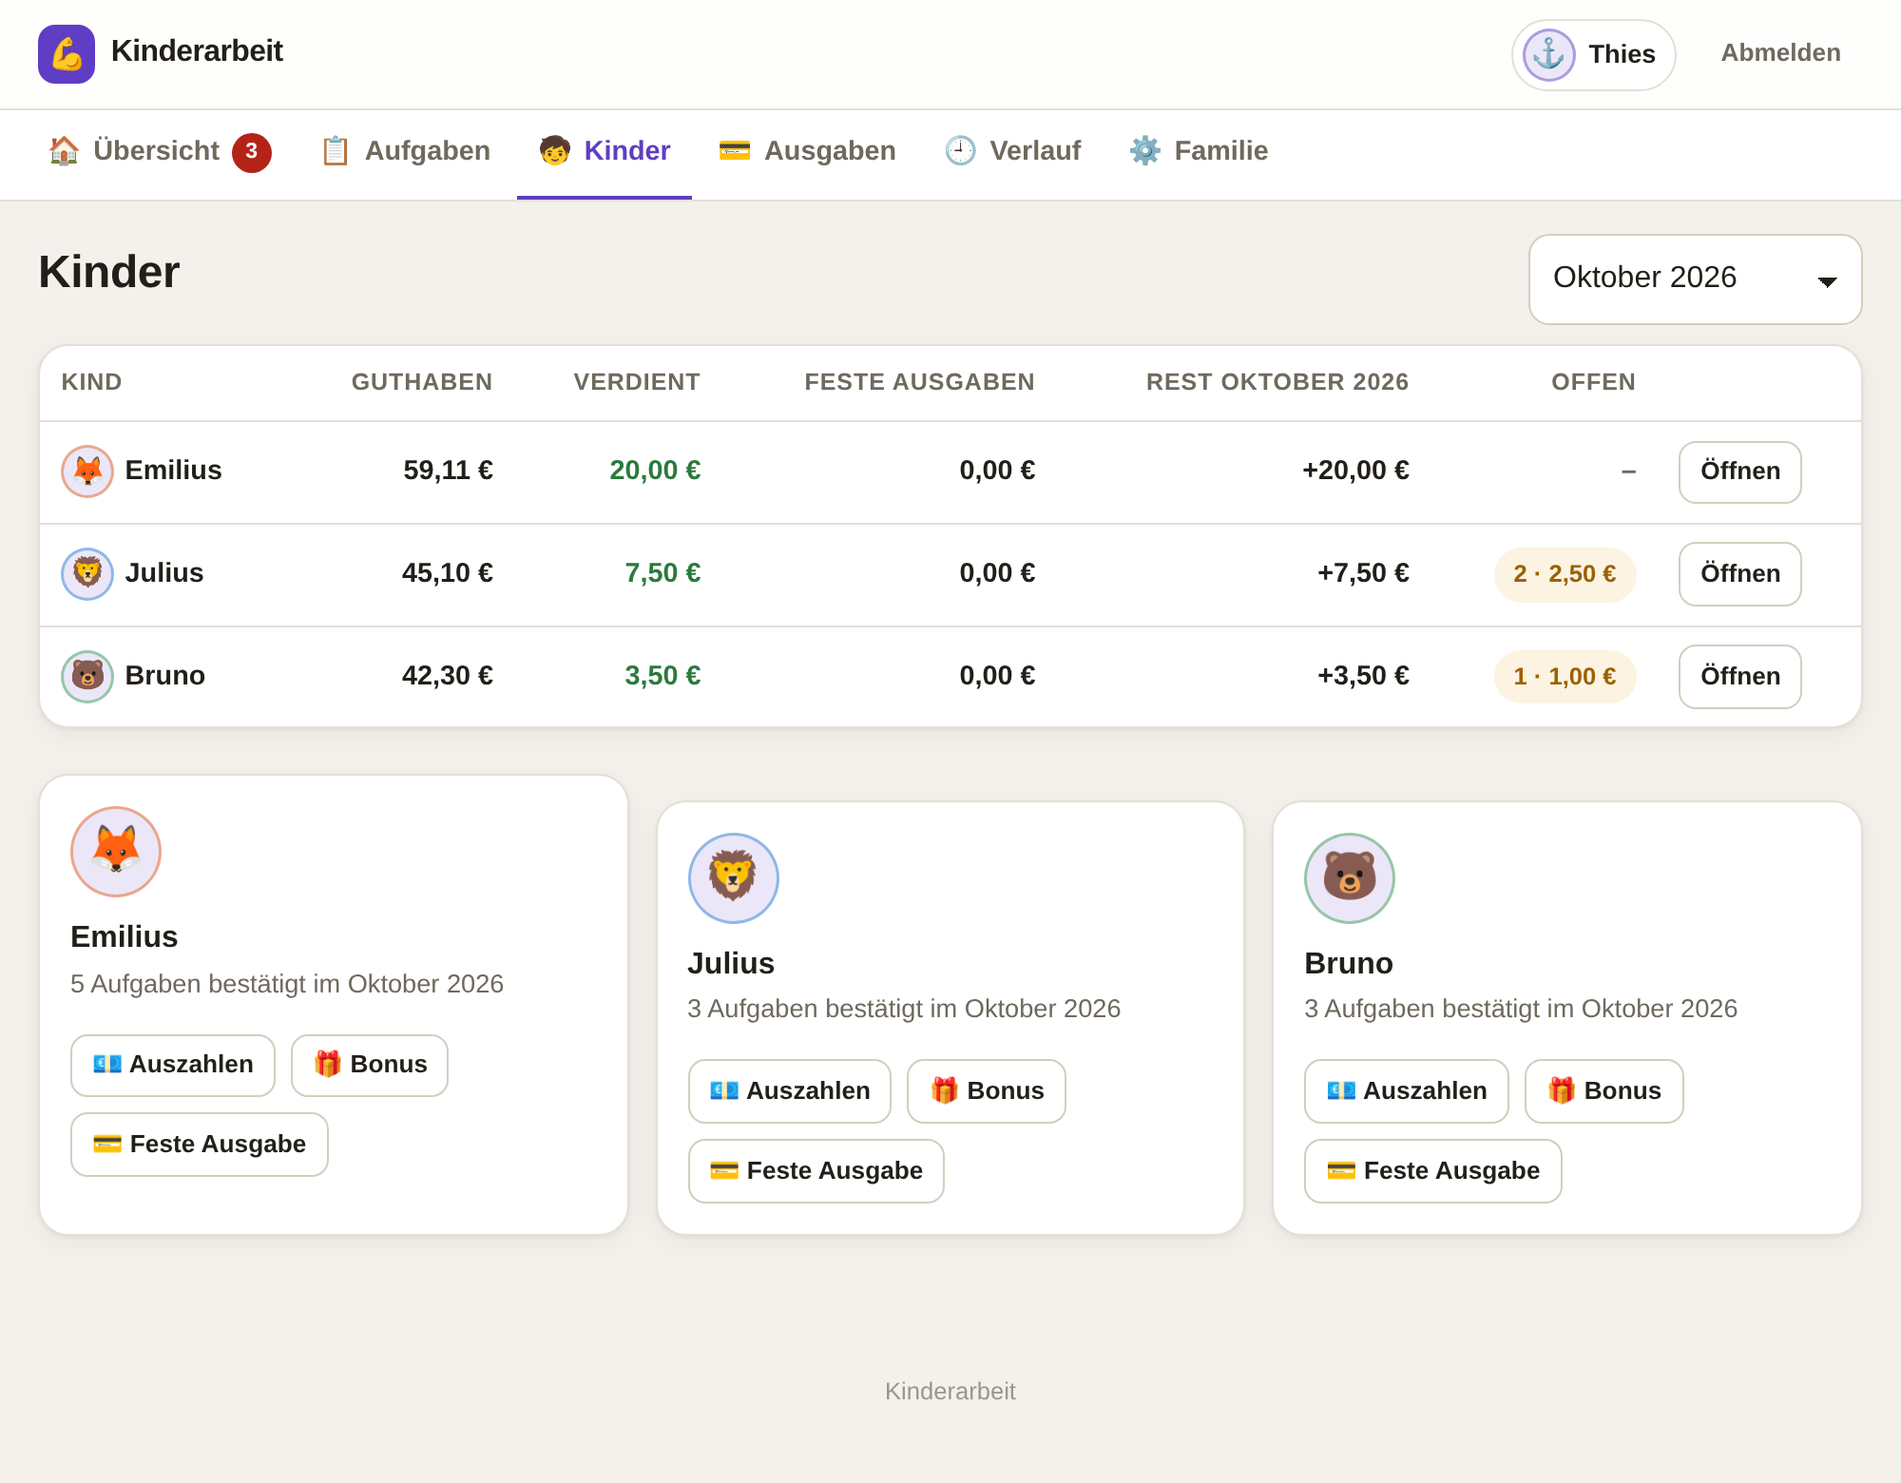
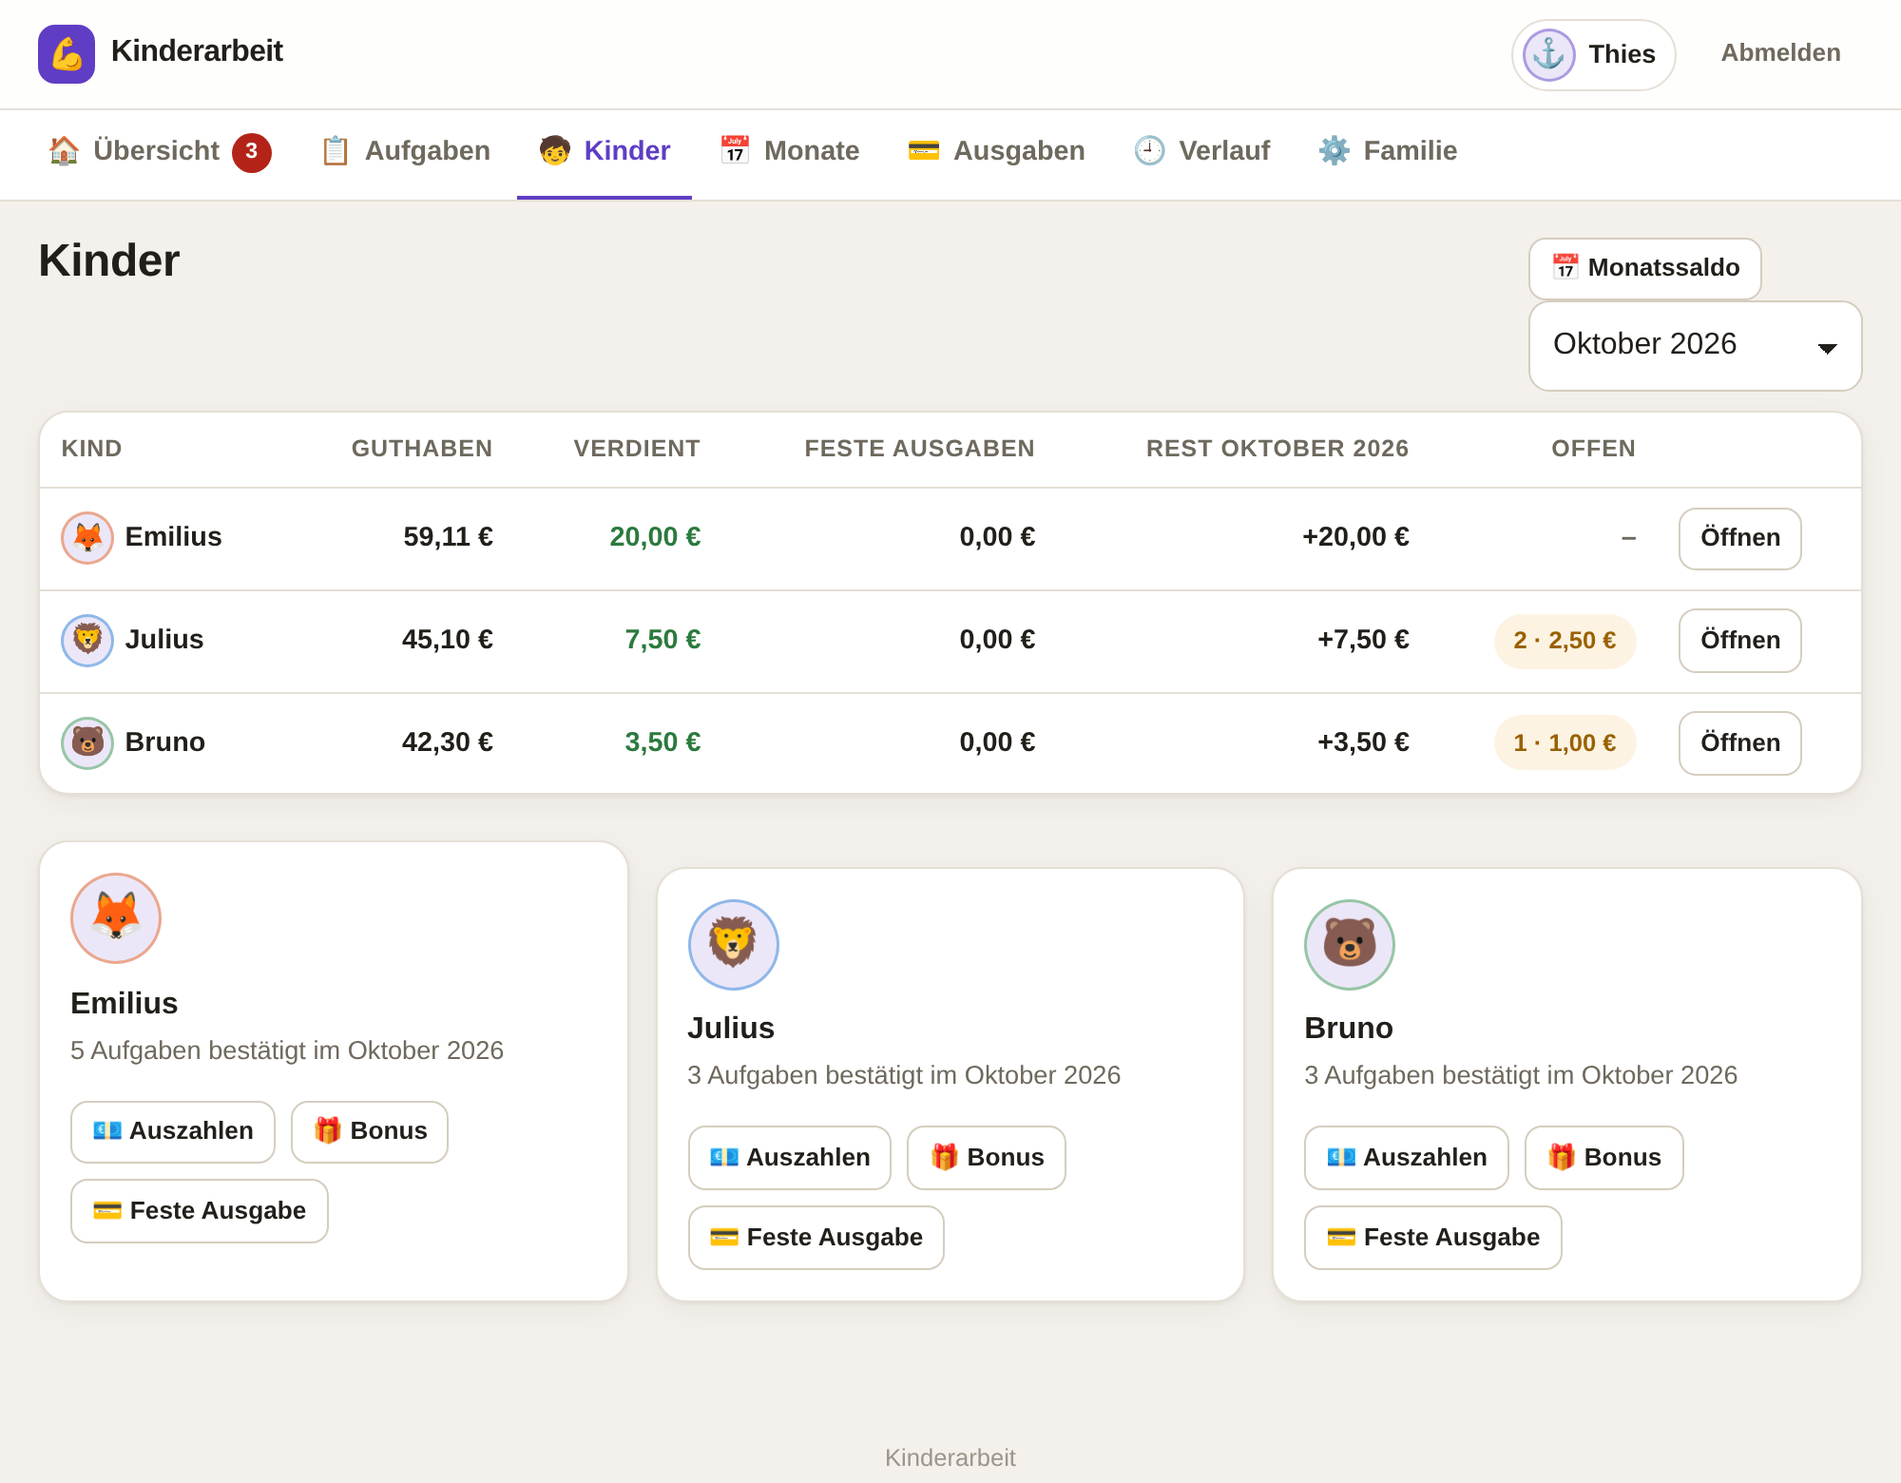
Monatssaldo: alle Kinder nebeneinander, Monat für Monat
Die Liste „Monat für Monat“ gibt es bisher nur je Kind. Wer wissen will, wie
die Monate über die ganze Familie liefen, musste drei Seiten vergleichen.

Die neue Seite (Eltern → Monate) legt beides übereinander: Zeilen sind die
Monate, Spalten die Kinder, in jeder Zelle der Saldo genau dieses Monats.
Rechts die Summe über alle Kinder, unten das Guthaben über alle Monate -
bewusst nicht die Summe der angezeigten Spalte, denn bei mehr als 24 Monaten
wäre das nicht dasselbe. Ein Klick auf einen Betrag führt zu diesem Monat
beim Kind, einer auf den Monat in den Verlauf; was den Saldo ausmacht, steht
im Tooltip, damit die Tabelle schmal bleibt.

Ledger::monthlyTotalsByChild() holt das in einer Abfrage - Monat => Kind =>
Zahlen, dieselben Felder wie monthSummary(). Monate, in denen ein Kind nichts
gebucht hat, lassen es weg; die Zelle bleibt leer, statt 0,00 € zu behaupten.

Am Stylesheet zwei Kleinigkeiten: die Monatsspalte bleibt beim seitlichen
Scrollen stehen (auf dem Handy passen sonst nur zwei Kinder ins Bild und man
weiß nicht mehr, zu welchem Monat die Zahl gehört), und Links in Tabellen
erben jetzt die Farbe der Zelle. Sonst übermalte das Linkblau genau die
Aussage - grün für plus, rot für minus - und ein Dutzend Unterstreichungen
machten die Spalte unruhig. Deshalb auch die Version hoch: sonst holt sich
kein Gerät das neue Stylesheet.

Geprüft: 303 Selbsttests (8 neue), die Seite in beiden Breiten im Browser,
[…]

diff --git a/assets/app.css b/assets/app.css
@@ -613,6 +613,20 @@ a:hover { color: color-mix(in srgb, var(--accent-ink) 75%, var(--text)); }
 .table { width: 100%; border-collapse: collapse; font-size: .9rem; }
 .table th, .table td { padding: .6rem .7rem; text-align: left; border-bottom: 1px solid var(--border); white-space: nowrap; }
 
+/* In Tabellen tragen die Zahlen die Aussage: grün für plus, rot für minus. Ein
+   Link darf diese Farbe nicht überschreiben, und ein Dutzend Unterstreichungen
+   machen die Spalte unruhig – erst beim Draufzeigen. */
+.table a { color: inherit; text-decoration: none; }
+.table a:hover, .table a:focus-visible { text-decoration: underline; }
+
+/* Die Monatsspalte bleibt beim seitlichen Scrollen stehen – sonst weiß man auf
+   dem Handy nicht mehr, zu welchem Monat die Zahl rechts gehört. */
+.table .col-monat {
+  position: sticky; left: 0; z-index: 1;
+  background: var(--surface);
+  box-shadow: 10px 0 10px -10px rgb(0 0 0 / .35);
+}
+
 /* Die Spalte mit Bearbeiten und Löschen bleibt beim seitlichen Scrollen stehen,
    damit sie auf dem Handy erreichbar ist. */
 .table .col-actions {

diff --git a/app/views/parent/month-balances.php b/app/views/parent/month-balances.php
@@ -1,0 +1,107 @@
+<?php
+/**
+ * Monatssaldo: alle Kinder nebeneinander, Monat für Monat.
+ *
+ * @var array $children  Kinder in ihrer Reihenfolge
+ * @var array $monate    Monat => Kind-ID => Zahlen (Ledger::monthlyTotalsByChild)
+ * @var array $balances  Kind-ID => Guthaben über alle Monate
+ */
+defined('KINDERARBEIT') || exit;
+
+$jetzt = current_month();
+?>
+
+<div class="section__head">
+  <h1>Monatssaldo</h1>
+  <span class="section__hint">Endsaldo je Monat und Kind</span>
+</div>
+
+<?php if (!$monate): ?>
+  <div class="card empty">
+    <span class="empty__icon" aria-hidden="true">📅</span>
+    Noch kein Monat mit Buchungen.
+  </div>
+<?php else: ?>
+  <div class="card card--flush">
+    <div class="table-wrap">
+      <table class="table">
+        <thead>
+          <tr>
+            <th class="col-monat">Monat</th>
+            <?php foreach ($children as $child): ?>
+              <th class="num"><?= e($child['emoji']) ?> <?= e($child['name']) ?></th>
+            <?php endforeach; ?>
+            <th class="num">Zusammen</th>
+          </tr>
+        </thead>
+        <tbody>
+          <?php foreach ($monate as $monat => $zeile): ?>
+            <?php $summe = 0; ?>
+            <tr>
+              <td class="col-monat">
+                <a href="<?= e(url('verlauf', ['monat' => $monat])) ?>"><?= e(month_label((string)$monat)) ?></a>
+                <?php if ($monat === $jetzt): ?><span class="pill tiny">läuft noch</span><?php endif; ?>
+              </td>
+
+              <?php foreach ($children as $child): ?>
+                <?php
+                $kindId = (int)$child['id'];
+                $zahlen = $zeile[$kindId] ?? null;
+                $saldo  = (int)($zahlen['net'] ?? 0);
+                $summe += $saldo;
+
+                // Was den Saldo ausmacht, steht im Tooltip – die Tabelle bleibt schmal.
+                $teile = [];
+                if ($zahlen !== null) {
+                    if ($zahlen['earned'] !== 0)      { $teile[] = 'verdient ' . Money::format($zahlen['earned']); }
+                    if ($zahlen['bonus'] !== 0)       { $teile[] = 'Bonus ' . Money::format($zahlen['bonus']); }
+                    if ($zahlen['expenses'] !== 0)    { $teile[] = 'feste Ausgaben ' . Money::format(-$zahlen['expenses']); }
+                    if ($zahlen['payouts'] !== 0)     { $teile[] = 'ausgezahlt ' . Money::format(-$zahlen['payouts']); }
+                    if ($zahlen['corrections'] !== 0) { $teile[] = 'Korrekturen ' . Money::format($zahlen['corrections'], true); }
+                }
+                ?>
+                <td class="num <?= $saldo > 0 ? 'value-positive' : ($saldo < 0 ? 'value-negative' : 'muted') ?>">
+                  <?php if ($zahlen === null): ?>
+                    <span class="muted">–</span>
+                  <?php else: ?>
+                    <a href="<?= e(url('kind-detail', ['id' => $kindId, 'monat' => $monat])) ?>"
+                       title="<?= e($teile ? implode(' · ', $teile) : 'nichts gebucht') ?>">
+                      <?= e(Money::format($saldo, true)) ?>
+                    </a>
+                  <?php endif; ?>
+                </td>
+              <?php endforeach; ?>
+
+              <td class="num <?= $summe > 0 ? 'value-positive' : ($summe < 0 ? 'value-negative' : 'muted') ?>">
+                <?= e(Money::format($summe, true)) ?>
+              </td>
+            </tr>
+          <?php endforeach; ?>
+        </tbody>
+        <tfoot>
+          <tr>
+            <th class="col-monat">Guthaben gesamt</th>
+            <?php $gesamt = 0; ?>
+            <?php foreach ($children as $child): ?>
+              <?php $stand = (int)($balances[(int)$child['id']] ?? 0); $gesamt += $stand; ?>
+              <th class="num <?= $stand < 0 ? 'value-negative' : ($stand > 0 ? 'value-positive' : 'muted') ?>">
+                <?= e(Money::format($stand)) ?>
+              </th>
+            <?php endforeach; ?>
+            <th class="num <?= $gesamt < 0 ? 'value-negative' : ($gesamt > 0 ? 'value-positive' : 'muted') ?>">
+              <?= e(Money::format($gesamt)) ?>
+            </th>
+          </tr>
+        </tfoot>
+      </table>
+    </div>
+  </div>
+
+  <p class="field__hint">
+    Jeder Monat fängt am 1. bei 0 an; am Monatsende gehen die festen Ausgaben ab.
+    Was dann unter dem Strich steht, ist der Saldo dieses Monats – ob plus oder minus.
+    Ein Klick auf einen Betrag zeigt den Monat beim Kind, ein Klick auf den Monat
+    alle Buchungen. <strong>Guthaben gesamt</strong> unten ist der Kontostand über
+    alle Monate hinweg.
+  </p>
+<?php endif; ?>

diff --git a/app/Repo/Ledger.php b/app/Repo/Ledger.php
@@ -293,6 +293,50 @@ final class Ledger
         return $monate;
     }
 
+    /**
+     * Dasselbe fuer alle Kinder auf einmal: Monat fuer Monat, je Kind der
+     * Saldo dieses Monats. Fuer die Seite „Monatssaldo“, die beides
+     * nebeneinanderlegt.
+     *
+     * @return array<string, array<int, array{earned:int, bonus:int, expenses:int, payouts:int, corrections:int, net:int, entries:int}>>
+     *         Monat (neueste zuerst) => Kind-ID => Zahlen
+     */
+    public static function monthlyTotalsByChild(int $limit = 24): array
+    {
+        $stmt = Database::pdo()->prepare(
+            "SELECT booked_month AS month, child_id,
+                COALESCE(SUM(CASE WHEN category = 'task'    AND amount_cents > 0 THEN amount_cents END), 0) AS earned,
+                COALESCE(SUM(CASE WHEN category = 'bonus'   AND amount_cents > 0 THEN amount_cents END), 0) AS bonus,
+                COALESCE(SUM(CASE WHEN category = 'expense' THEN -amount_cents END), 0)                 AS expenses,
+                COALESCE(SUM(CASE WHEN category = 'payout'  THEN -amount_cents END), 0)                 AS payouts,
+                COALESCE(SUM(CASE WHEN category = 'correction' THEN amount_cents END), 0)               AS corrections,
+                COALESCE(SUM(amount_cents), 0)                                                          AS net,
+                COUNT(*)                                                                                AS entries
+               FROM ledger
+              WHERE booked_month IN (
+                    SELECT DISTINCT booked_month FROM ledger ORDER BY booked_month DESC LIMIT " . max(1, $limit) . "
+                    )
+           GROUP BY booked_month, child_id
+           ORDER BY booked_month DESC"
+        );
+        $stmt->execute();
+
+        $monate = [];
+        foreach ($stmt->fetchAll() as $row) {
+            $monate[(string)$row['month']][(int)$row['child_id']] = [
+                'earned'      => (int)$row['earned'],
+                'bonus'       => (int)$row['bonus'],
+                'expenses'    => (int)$row['expenses'],
+                'payouts'     => (int)$row['payouts'],
+                'corrections' => (int)$row['corrections'],
+                'net'         => (int)$row['net'],
+                'entries'     => (int)$row['entries'],
+            ];
+        }
+
+        return $monate;
+    }
+
     /** Buchungen eines Kindes, optional auf einen Monat begrenzt. */
     public static function forChild(int $childId, ?string $month = null, int $limit = 100): array
     {

diff --git a/bin/selftest.php b/bin/selftest.php
@@ -870,6 +870,31 @@ check('Bleibt beim Zuruecknehmen liegen',
       in_array('Schwimmbad', array_column(Expenses::clearBookings(current_month()), 'title'), true), false);
 check('Und wird nicht neu gebucht',   Billing::run(true), 0);
 
+echo "\nMonatssaldo fuer alle Kinder\n";
+$alle = Ledger::monthlyTotalsByChild();
+check('Monate sind dabei',            isset($alle[current_month()]), true);
+check('Neuester Monat zuerst',        array_key_first($alle), max(array_keys($alle)));
+
+$julius = Users::findByName('Julius');
+foreach (Ledger::monthlyTotals((int)$julius['id']) as $monat) {
+    $ausTabelle = $alle[$monat['month']][(int)$julius['id']]['net'] ?? 'fehlt';
+    check('Saldo ' . $monat['month'] . ' deckt sich je Kind', $ausTabelle, $monat['net']);
+}
+
+$summe = 0;
+foreach ($alle as $zeile) {
+    $summe += $zeile[(int)$julius['id']]['net'] ?? 0;
+}
+check('Summe aller Monate ist der Kontostand', $summe, Ledger::balance((int)$julius['id']));
+
+// Ein Monat, in dem nur ein Kind etwas hatte: die anderen stehen gar nicht erst drin.
+Ledger::book((int)$julius['id'], 250, 'Lang her', 'bonus', 'manual', null,
+             (int)$thies['id'], '2020-01-15 12:00:00');
+$alle = Ledger::monthlyTotalsByChild();
+check('Alter Monat ist dabei',        isset($alle['2020-01']), true);
+check('Nur das Kind mit Buchung',     array_keys($alle['2020-01']), [(int)$julius['id']]);
+check('Und mit seinem Saldo',         $alle['2020-01'][(int)$julius['id']]['net'], 250);
+
 // Aufraeumen
 foreach (glob($tmp . '/*') ?: [] as $file) {
     @unlink($file);

diff --git a/app/views/layout.php b/app/views/layout.php
@@ -77,6 +77,7 @@ $pendingForNav = ($me && $me['role'] === 'parent') ? Completions::pendingCount()
             <?= View::render('partials/nav-link', ['href' => url('eltern'),   'label' => 'Übersicht',  'icon' => '🏠', 'active' => in_array($page, ['eltern', 'start'], true), 'count' => $pendingForNav]) ?>
             <?= View::render('partials/nav-link', ['href' => url('aufgaben'), 'label' => 'Aufgaben',   'icon' => '📋', 'active' => in_array($page, ['aufgaben', 'aufgabe-form'], true)]) ?>
             <?= View::render('partials/nav-link', ['href' => url('kinder'),   'label' => 'Kinder',     'icon' => '🧒', 'active' => in_array($page, ['kinder', 'kind-detail'], true)]) ?>
+            <?= View::render('partials/nav-link', ['href' => url('monatssaldo'), 'label' => 'Monate',    'icon' => '📅', 'active' => $page === 'monatssaldo']) ?>
             <?= View::render('partials/nav-link', ['href' => url('ausgaben'), 'label' => 'Ausgaben',   'icon' => '💳', 'active' => in_array($page, ['ausgaben', 'ausgabe-form'], true)]) ?>
             <?= View::render('partials/nav-link', ['href' => url('verlauf'),  'label' => 'Verlauf',    'icon' => '🕘', 'active' => in_array($page, ['verlauf', 'buchung'], true)]) ?>
             <?= View::render('partials/nav-link', ['href' => url('familie'),  'label' => 'Familie',    'icon' => '⚙', 'active' => $page === 'familie']) ?>

diff --git a/index.php b/index.php
@@ -6,7 +6,7 @@ declare(strict_types=1);
  * Einstiegspunkt fuer alle Seitenaufrufe.
  */
 
-define('KINDERARBEIT', '1.2.0');
+define('KINDERARBEIT', '1.3.0');
 
 require __DIR__ . '/app/bootstrap.php';
 
@@ -81,6 +81,7 @@ try {
         case 'pruefen':        ParentController::decide();         break;
         case 'kinder':         ParentController::childrenOverview(); break;
         case 'kind-detail':    ParentController::childDetail();    break;
+        case 'monatssaldo':    ParentController::monthlyBalances(); break;
 
         // --- Aufgabenverwaltung --------------------------------------------
         case 'aufgaben':       TaskController::index();            break;

diff --git a/app/Controller/ParentController.php b/app/Controller/ParentController.php
@@ -197,6 +197,19 @@ final class ParentController
         ]);
     }
 
+    /** Monatssaldo: alle Kinder nebeneinander, Monat für Monat. */
+    public static function monthlyBalances(): void
+    {
+        Auth::requireParent();
+
+        View::page('parent/month-balances', [
+            'title'    => 'Monatssaldo',
+            'children' => Users::children(),
+            'monate'   => Ledger::monthlyTotalsByChild(),
+            'balances' => Ledger::balances(),
+        ]);
+    }
+
     /** Detailseite eines Kindes mit Konto, Aufgaben und festen Ausgaben. */
     public static function childDetail(): void
     {

diff --git a/app/views/parent/children.php b/app/views/parent/children.php
@@ -6,6 +6,7 @@ defined('KINDERARBEIT') || exit;
 <div class="section__head">
   <h1>Kinder</h1>
   <div class="section__action">
+    <a class="btn btn--sm" href="<?= e(url('monatssaldo')) ?>">📅 Monatssaldo</a>
     <?= View::render('partials/month-switch', ['month' => $month, 'months' => $months, 'target' => 'kinder']) ?>
   </div>
 </div>

diff --git a/CLAUDE.md b/CLAUDE.md
@@ -37,7 +37,7 @@ git config commit.gpgsign false
 ## Befehle
 
 ```bash
-php bin/selftest.php                 # 295 Prüfungen der Rechenlogik, ohne Webserver
+php bin/selftest.php                 # 303 Prüfungen der Rechenlogik, ohne Webserver
 php bin/demo-data.php --force        # Beispielbestand zum Ausprobieren (löscht die DB!)
 php bin/zugangslink.php Emilius      # Zugangslink erzeugen (Rettungsanker per SSH)
 php bin/reset-pin.php Thies 4711     # PIN zurücksetzen, wenn niemand mehr reinkommt
@@ -130,6 +130,13 @@ Monat“ – im Elternbereich auf der Kindseite, für das Kind unter *Mein Konto
 Der Saldo ist die Bilanz genau dieses Monats, nicht der fortlaufende Kontostand:
 am 1. fängt die Rechnung wieder bei null an. Das Guthaben über alle Monate steht
 weiterhin oben im Kopf.
+
+Dieselben Zahlen für alle Kinder nebeneinander liefert
+`Ledger::monthlyTotalsByChild()` – Monat => Kind-ID => Zahlen – für die Seite
+**Monatssaldo** (`?p=monatssaldo`, `views/parent/month-balances.php`). Monate,
+in denen ein Kind nichts gebucht hat, lassen es weg; die Zelle bleibt leer statt
+0,00 € zu behaupten. Die Fußzeile zeigt das Guthaben über alle Monate, nicht die
+Summe der angezeigten – bei mehr als 24 Monaten wäre das nicht dasselbe.
 
 **Feste Ausgaben gehen am Monatsende ab.** Am Monatsanfang hat das Kind noch
 nichts verdient – wird dann abgebucht, steht das Konto sofort im Minus. Deshalb

diff --git a/README.md b/README.md
@@ -20,6 +20,7 @@ vollständige Historie und der Restbetrag pro Monat.
 | Aufgaben | Eltern | Aufgaben anlegen, Betrag festlegen, zuweisen, pausieren |
 | Kinder | Eltern | Konten im Vergleich, Detailseite je Kind |
 | Ausgaben | Eltern | regelmäßige monatliche Ausgaben je Kind |
+| Monatssaldo | Eltern | Endsaldo jedes Monats, alle Kinder nebeneinander |
 | Verlauf | Eltern | alle Buchungen, filterbar nach Kind und Monat – hier lassen sie sich auch ändern und löschen |
 | Familie | Eltern | Zugangslinks, PINs, Sperren, Symbole, Farben, angemeldete Geräte |
 | Benachrichtigungen | alle | pro Gerät ein- und ausschaltbar, direkt auf der Startseite |
@@ -67,6 +68,10 @@ gehört ausdrücklich nicht zur Anwendung).
 <img src="docs/bilder/17-eltern-kinder.png" width="900">
 
 **Kinder im Vergleich.** Alle Konten nebeneinander, umschaltbar auf jeden vergangenen Monat.
+
+<img src="docs/bilder/17b-monatssaldo.png" width="900">
+
+**Monatssaldo.** Der Endsaldo jedes Monats, alle Kinder nebeneinander – ob plus oder minus. Jeder Monat fängt am 1. bei 0 an; ein Klick auf einen Betrag führt zu diesem Monat beim Kind. Unten der Kontostand über alle Monate hinweg.
 
 <img src="docs/bilder/18-eltern-verlauf.png" width="900">
 
